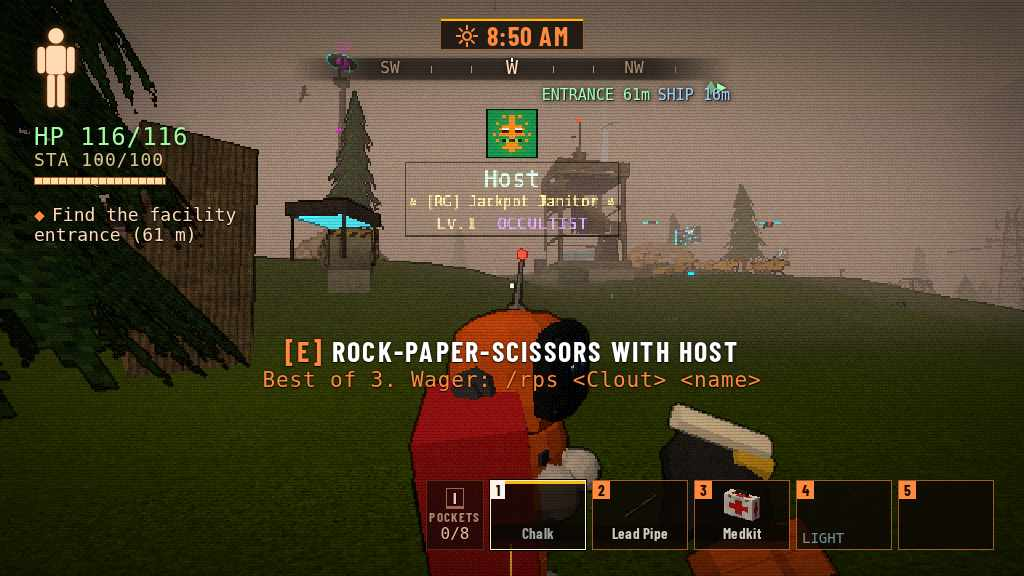
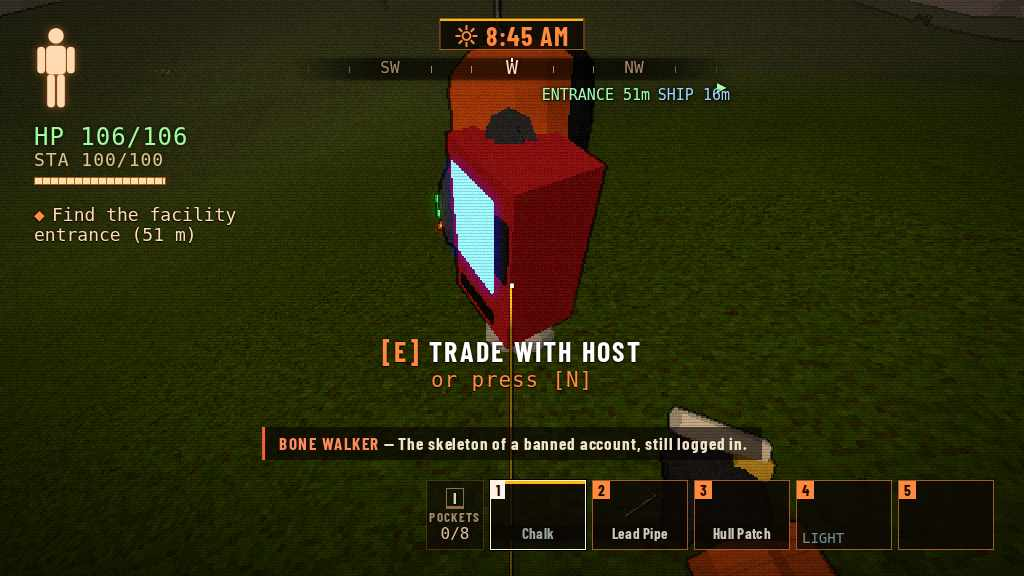
QA night 2 MP rerun: harness fixes, 17/17 pass (takeoff = ship faults gating, tag clear after on-air window, strap + revive UI on both peers)
Claude-Session: https://claude.ai/code/session_01AFt3mbxtTU1FfiT1N1A1YL

diff --git a/docs/wave8/qa_night2.md b/docs/wave8/qa_night2.md
@@ -89,6 +89,39 @@ The opening (stream, route board, one goal line, drone with a named lesson, revi
 ## 6. Not verified / next
 
 - Expedition maps: look at them on a real GPU first (bug 1), then the need bars in play.
-- Two-player: takeoff to orbit in the harness, tag clear after the on-air window, host migration in phase `landing`, the strap line (not visible).
+- Two-player: DONE, see section 7 (takeoff, tag clear, migration in `landing`, strap).
 - Fixes that were not re-shot: stream HUD hide, MOONS ALL duplicate, beam, revive ring position, highlight pill, TAGGED indoors.
 - Eye tells: spawn a creature in view (freeze at the correct yaw) and shoot it with no torch; the current frames do not show the spawned type.
+
+## 7. MP rerun (`qa_night2_mp.mjs`, two tabs, 17 / 17 PASS)
+
+The first rerun on current main reproduced the 4 failures (tag HUD line, tag clear, takeoff, mid-landing). **All four were harness bugs; no game bug.** The script now passes end to end (0 pageerrors), and it also proved flaky-by-seed on two rows until fixed (see the last two lines of "root causes").
+
+Root causes:
+- **Takeoff stayed in `moon` = the pre-flight ship faults working as designed.** `shipfaults.js` wraps `hostBeginTakeoff`: at quota 0 it rolls 35 % (`Math.random() < 0.65` lets the ship go at once), otherwise it starts a checklist (`F.act`, "Takeoff blocked: N faults left") and only runs the original takeoff after everything is fixed and the "ignition in 3" countdown ends. The old script called `hostBeginTakeoff` once and waited. Not blockers (checked by reading): rewardviz lever confirm (only on `hostLever`), hubgate, carry2, landingq, expeditions, feedcams (they only listen to the `takeoff` phase). The script now forces the fault branch (`Math.random = 0.99` for that one call), asserts the lever does NOT launch (`faults: ["jam"]`), calls `gameplay2.parts.faults.fixAll()` and waits: both peers reach `orbit`.
+- **"TAGGED goal line" read only the `◆` leaf**: the goal text is a text node beside the marker span. Now reads `.objectives` innerText: `TAGGED: get to the ship (23 m) or kill the camera that tagged you`.
+- **"reaching the ship clears the tag" needs the ON AIR window to end** (`feedcams.js taxTick`: `m.tag` clears when `inShip && !(air > now)`, `FC.hold` = 10 s after the last exposure). Right after arriving fc.p is `[0,1,1]` (meter 0, on air, tagged); the script now asserts that, then ticks until `[..,..,0]` on host and client: cleared on both, goal line back to `Find the facility entrance`.
+- **Mid-landing timing**: the landing timer is a wall-clock `setTimeout` (9 s), so the tab had already finished landing when the check ran. The script freezes `hostFinishLanding` on the host, waits for the client to see `landing`, then kills the host: the migrated client finishes the landing (phase `moon`, terrain + facility, 10 creatures, epoch 1, player valid).
+- **Seed flakiness**: the moon seed is random per run and placements used the ground height of (0, 14) for every spot, so on slopes the aim ray missed ("Ship table [E]" target) and the grip lapsed. Placement is now per-point `heightAt`, aim is computed from the real eye position (`aimAt`).
+
+| # | check | result | numbers |
+|---|---|---|---|
+| 1 | connect + landing on hamsi | PASS | both `moon` |
+| 2 | client DOWN, host sees it | PASS | hp 1, not dead |
+| 3 | host aim finds the downed interactable | PASS | "HOLD [E] TO REVIVE" |
+| 4 | revive ring `.dn-mid` on the host | PASS | 86x90, "REVIVING Client" |
+| 5 | downed client sees its own revive UI while the host holds E | PASS (new) | `.dn-bar` "BLEEDING OUT 15 S" |
+| 6 | client back up ~30 % | PASS | 32 / 106 |
+| 7 | solo bulky carrier x0.55 | PASS | carryMul 0.55, turn 0.6 |
+| 8 | helper grip: host `co` + both see it, speed | PASS | host 0.92 (the 1.2 bug is fixed by feelfix2), client 0.92 |
+| 9 | strap line visible on BOTH peers | PASS (new) | 1 visible yellow `THREE.Line` on host and client, `co` size 1 each |
+| 10 | let go of E | PASS | co 0, back to 0.55 |
+| 11 | client TAGGED, host marks it | PASS | fc.p `[25,1,1]` |
+| 12 | client HUD TAGGED goal line | PASS | text above |
+| 13 | tag held while still on air at the ship | PASS (new) | `[0,1,1]` |
+| 14 | tag cleared on host + client after the window | PASS | `null` on both |
+| 15 | lever does NOT launch with open faults (gating) | PASS (new) | `faults ["jam"]`, phase `moon` |
+| 16 | fixAll -> both peers in `orbit` | PASS | host + client `orbit` |
+| 17 | host migration mid-landing | PASS | both `landing` when the host left; `HOST LEFT` prompt, `accept()`, new host phase `moon`, map built |
+
+Nit for a designer, not a bug: a tagged player who is already in the ship keeps the red TAGGED state for up to 10 s (the on-air window), which reads as "the ship did not save me"; the goal line switches only when the tag clears. Shots refreshed: `n2_mp_carry_client.jpg` (strap on the host avatar), `n2_mp_revive_host.jpg`.

diff --git a/docs/CRITIQUE.md b/docs/CRITIQUE.md
@@ -369,3 +369,4 @@ herocontent (wave 8): metro / greenhouse / prison / tower got their own scrap ta
 - perf6 (wave 8): landing now builds an off-scene warm set (moon's pool creatures, scrap / big items, common VFX materials) so prewarm compiles + initTexture uploads them before first sight; `kefal.game.perfInfo()` for QA (programs / geometries / textures). Not browser-measured: check `perfInfo().warm` and hitch counts on a landing.
 QA night 2 (wave 8): the opening now shows the game's own identity (LIVE stream overlay, 3 route cards, one goal line, a drone that teaches the camera verb, revive / co-carry / migration across two tabs, highlight CRT, income-by-source report); fixed 9 small UI bugs found on the way (stream HUD bleed, MOONS ALL duplicate, negative count-up, indoor TAGGED distance, toast under the ticker, Tab card spacing, revive ring on its prompt, highlight pill, rare beam). Not yet showable: the barge / roof expedition maps (OOM at landing on software GL, pale frames), dark metro platform, empty-looking mansion corner, half-screen bulky carry. Score 5.5.
 - feelfix2 (wave 8): QA night 2 feel problems fixed without a browser run: first frame faces the terminal, locked prompts only up close, round soft drone cone, bulky carry <= 25 % of the view (ghosted + lowered), host carryMul 0.92 while gripped, metro platform / influencer corridor brighter with more practicals, report no longer over the quota banner. Unverified visually (expedfix holds the browser).
+- MP rerun (wave 8): the two-tab script now passes 17/17; the 'takeoff never happens' finding was the pre-flight ship faults (35 % roll at quota 0, `Takeoff blocked: N faults left`), not a bug. Remaining design nit: a tagged player already inside the ship stays red for up to 10 s (on-air window) before the tag clears.

diff --git a/AGENTS.md b/AGENTS.md
@@ -382,6 +382,7 @@ First look at everything merged after QA night 1: stream overlay, route board, p
 
 ### 5.37 Wave 8 night - FEELFIX2 (docs/wave8/feelfix2.md; node test `tools/harness/feelfix2.test.mjs`; NOT re-shot in the browser)
 Fixes from QA night 2: stream end faces the terminal + locked-fixture prompt only within 1.5 m (`hubgate.js LOCK_NEAR`) + tarp hides lids in its footprint; drone cone round/soft (`feedcams2.js softCone/softDisc`), camera floor cone 20 slices; bulky held items slide low/right, scaled + ghosted so they cover <= 25 % (`fpbody_grip.js boxCover/COVER_MAX`, `fpbody.js ghostTick`); carry2 holder `carryMul` = 0.92 (weight penalty cancelled via `P.carryCancel` in localplayer); metro platform / influencer corridor palette + practicals (`practicals.corridor` theme knob); day report hides the top quota banner (`docklayout.js`).
+MP rerun of QA night 2 (wave 8): `tools/harness/qa_night2_mp.mjs` passes 17/17 (takeoff to orbit, tag clear at the ship, migration in `landing`, strap + revive UI on both peers); all 4 earlier failures were harness bugs (takeoff held by the pre-flight ship faults, tag clears only after the 10 s on-air window, wall-clock landing timer, per-seed slope placement), no game change; see docs/wave8/qa_night2.md section 7.
 
 ## 6. Roadmap (next steps, in priority order)
 1. **Stabilise:** browser smoke test of the round-3 content (§5.8-5.10): land on gen0_0..2 and every interior theme, van,
